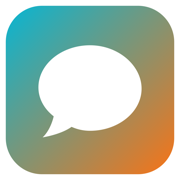
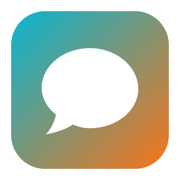
refactor(ui): implement reusable BrandLogo component for best practice RTL handling

Changed region(s): [[0.0278, 0.0278, 0.9722, 0.9722], [0.1944, 0.25, 0.8056, 0.7778]]

diff --git a/frontend/src/components/layout/DashboardLayout.tsx b/frontend/src/components/layout/DashboardLayout.tsx
@@ -6,7 +6,7 @@ import Link from 'next/link';
 import { Sidebar } from './Sidebar';
 import { useAuthStore, useUIStore } from '@/lib/store';
 import { useTranslation } from '@/i18n';
-import { PageSpinner, VersionBadge, WhatsAppHelpButton } from '@/components/ui';
+import { PageSpinner, VersionBadge, WhatsAppHelpButton, BrandLogo } from '@/components/ui';
 import clsx from 'clsx';
 import { BRAND_ASSETS } from '@/constants/brand';
 
@@ -89,9 +89,8 @@ export function DashboardLayout({ children, title, isPublic = false }: Dashboard
         {isCleanLayout ? (
           <div className="fixed top-0 left-0 right-0 h-16 bg-white/80 backdrop-blur-xl flex items-center justify-between px-6 z-40 border-b border-surface-100 shadow-sm">
             <Link href="/landing" className="flex items-center gap-2 group">
-              <img
-                src={BRAND_ASSETS.logo.small}
-                alt={BRAND_ASSETS.meta.appName + " Logo"}
+              <BrandLogo
+                variant="small"
                 className="w-8 h-8 rounded-lg shadow-md shadow-brand-500/20 group-hover:rotate-6 transition-transform"
               />
               <span className="font-display font-bold text-lg tracking-tight text-surface-900">{BRAND_ASSETS.meta.appName}</span>
@@ -113,9 +112,8 @@ export function DashboardLayout({ children, title, isPublic = false }: Dashboard
         ) : (
           <div className="md:hidden fixed top-0 left-0 right-0 h-20 bg-surface-900 flex items-center justify-between px-6 z-40 shadow-xl border-b border-white/5">
             <Link href="/dashboard" className="flex items-center gap-3">
-              <img
-                src={BRAND_ASSETS.logo.main}
-                alt={BRAND_ASSETS.meta.appName + " Logo"}
+              <BrandLogo
+                variant="main"
                 className="w-8 h-8 rounded-lg shadow-lg border border-white/50"
               />
               <span className="font-display font-bold text-lg text-surface-900 tracking-tight">{BRAND_ASSETS.meta.appName}</span>

diff --git a/frontend/src/components/ui/BrandLogo.tsx b/frontend/src/components/ui/BrandLogo.tsx
@@ -1,0 +1,44 @@
+import React from 'react';
+import { useTranslation } from '@/i18n';
+import { BRAND_ASSETS } from '@/constants/brand';
+
+interface BrandLogoProps extends React.ImgHTMLAttributes<HTMLImageElement> {
+    variant?: 'main' | 'small' | 'large' | 'vector';
+}
+
+/**
+ * BrandLogo Component
+ * 
+ * Automatically handles RTL awareness for the logo.
+ * If the current language is Arabic (RTL) AND the variant is 'main', it shows the mirrored logo.
+ * Otherwise, it shows the standard logo.
+ */
+export const BrandLogo: React.FC<BrandLogoProps> = ({
+    variant = 'main',
+    className = '',
+    alt,
+    ...props
+}) => {
+    const { language } = useTranslation();
+    const isRTL = language === 'ar';
+
+    // Determine the correct source
+    let src = BRAND_ASSETS.logo[variant];
+
+    // Specific logic for 'main' variant in RTL mode
+    if (variant === 'main' && isRTL && BRAND_ASSETS.logo.mainRtl) {
+        src = BRAND_ASSETS.logo.mainRtl;
+    }
+
+    // Default alt text if not provided
+    const altText = alt || `${BRAND_ASSETS.meta.appName} Logo`;
+
+    return (
+        <img
+            src={src}
+            alt={altText}
+            className={className}
+            {...props}
+        />
+    );
+};

diff --git a/frontend/src/pages/landing.tsx b/frontend/src/pages/landing.tsx
@@ -19,7 +19,7 @@ import {
   Mail
 } from 'lucide-react';
 import { useTranslation, type TranslationKey } from '@/i18n';
-import { Button } from '@/components/ui';
+import { Button, BrandLogo } from '@/components/ui';
 import { useAuthStore } from '@/lib/store';
 import { BRAND_ASSETS } from '@/constants/brand';
 
@@ -152,9 +152,8 @@ export default function LandingPage() {
               {/* Logo */}
               {/* Logo */}
               <Link href="/landing" className="flex items-center gap-2 sm:gap-3 group">
-                <img
-                  src={BRAND_ASSETS.logo.main}
-                  alt={BRAND_ASSETS.meta.appTitle + " Logo"}
+                <BrandLogo
+                  variant="main"
                   className="w-9 h-9 sm:w-12 sm:h-12 rounded-xl sm:rounded-2xl shadow-lg shadow-brand-100 transition-transform group-hover:rotate-6"
                 />
                 <span className="font-display font-bold text-lg sm:text-2xl text-surface-900 tracking-tight">{BRAND_ASSETS.meta.appName}</span>

diff --git a/frontend/src/pages/login.tsx b/frontend/src/pages/login.tsx
@@ -12,7 +12,7 @@ import {
   Star
 } from 'lucide-react';
 import { useTranslation } from '@/i18n';
-import { Button } from '@/components/ui';
+import { Button, BrandLogo } from '@/components/ui';
 import { useVersion } from '@/lib/useVersion';
 import Link from 'next/link';
 import { BRAND_ASSETS } from '@/constants/brand';
@@ -170,9 +170,8 @@ export default function LoginPage() {
           {/* Mobile Nav */}
           <div className="flex items-center justify-between p-6 lg:p-12">
             <Link href="/landing" className="flex items-center gap-3 group">
-              <img
-                src={BRAND_ASSETS.logo.small}
-                alt={BRAND_ASSETS.meta.appName + " Logo"}
+              <BrandLogo
+                variant="small"
                 className="w-10 h-10 rounded-xl shadow-lg group-hover:rotate-6 transition-transform"
               />
               <span className="font-display font-bold text-xl text-surface-900 tracking-tight">{BRAND_ASSETS.meta.appName}</span>

diff --git a/frontend/src/pages/checkout.tsx b/frontend/src/pages/checkout.tsx
@@ -5,7 +5,7 @@ import Link from 'next/link';
 import { useTranslation, type TranslationKey } from '@/i18n';
 import { BRAND_ASSETS } from '@/constants/brand';
 
-import { Button } from '@/components/ui';
+import { Button, BrandLogo } from '@/components/ui';
 import { CheckCircle2, Loader2, ArrowRight, ArrowLeft, MessageCircle } from 'lucide-react';
 import { api, publicApi } from '@/lib/api';
 
@@ -114,9 +114,8 @@ export default function CheckoutPage() {
           {/* Header */}
           <div className="text-center mb-8">
             <Link href="/" className="flex items-center gap-3">
-              <img
-                src={BRAND_ASSETS.logo.main}
-                alt={BRAND_ASSETS.meta.appName + " Logo"}
+              <BrandLogo
+                variant="main"
                 className="w-10 h-10 rounded-xl shadow-lg"
               />
               <span className="font-display font-bold text-2xl text-surface-900 tracking-tight">{BRAND_ASSETS.meta.appName}</span>

diff --git a/frontend/src/constants/brand.ts b/frontend/src/constants/brand.ts
@@ -6,7 +6,8 @@ export const BRAND_ASSETS = {
     logo: {
         small: '/brand/logo-small.png',
         large: '/brand/logo-large.png',
-        main: '/brand/logo-main.png',
+        main: '/brand/logo-main.svg',
+        mainRtl: '/brand/logo-main-rtl.svg',
         vector: '/brand/icon-vector.svg',
     },
     seo: {

diff --git a/frontend/src/components/ui/index.ts b/frontend/src/components/ui/index.ts
@@ -1,5 +1,6 @@
 export { Card, CardHeader } from './Card';
 export { Button } from './Button';
+export { BrandLogo } from './BrandLogo';
 export { Toggle } from './Toggle';
 export { Badge } from './Badge';
 export { Input } from './Input';
